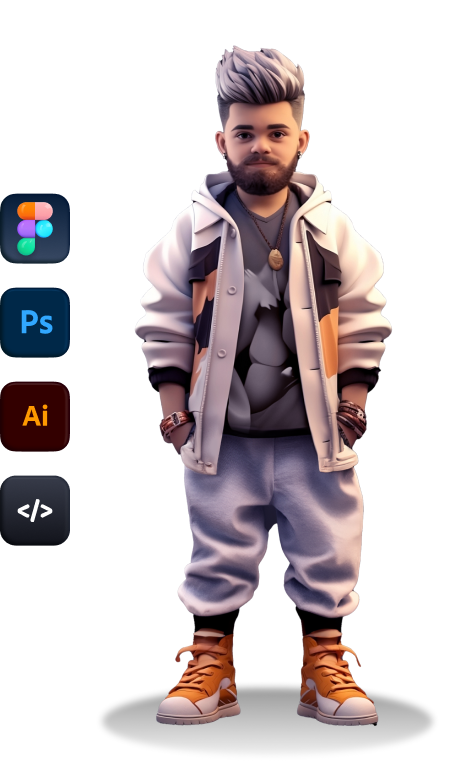
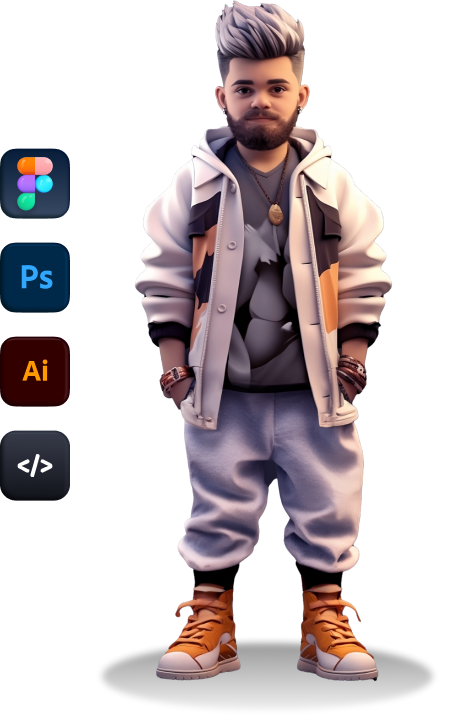
home mobile code update

diff --git a/css/styles-home.css b/css/styles-home.css
@@ -1,1 +1,1 @@
-.container{width:100%;max-width:1170px;margin:0 auto}*{font-family:'Baloo 2';padding:0;border:0;margin:0;box-sizing:border-box}body{background-image:url("../imgs/bg.jpg");background-size:cover;background-position:center center}html{scroll-padding-top:80px}header#header{background:linear-gradient(180deg, rgba(255,255,255,0.1) 0%, rgba(22,171,255,0.1) 100%),rgba(0,0,0,0.2);backdrop-filter:blur(8px);position:fixed;width:100%;padding:0px 16px;box-sizing:border-box;z-index:999}header#header .container .box-flex{display:flex;align-items:center;justify-content:space-between;height:80px}@media (max-width: 767px){header#header .container .box-flex{height:60px}}header#header .container .box-flex .logo{display:block;width:192px;text-decoration:none}@media (max-width: 767px){header#header .container .box-flex .logo{width:140px}}header#header .container .box-flex .logo img{display:block}@media (max-width: 767px){header#header .container .box-flex .logo img{width:140px}}header#header .container .box-flex nav{display:flex;align-items:center;justify-content:space-between;width:100%;height:100%;padding:24px 0 24px 0px;max-width:296px}@media (max-width: 767px){header#header .container .box-flex nav{display:none}}header#header .container .box-flex nav .menus{display:flex;align-items:center;justify-content:space-between;width:100%;padding-right:24px;border-right:solid 1px;border-color:#8aabff}header#header .container .box-flex nav .menus .link{color:#fff;text-decoration:none;position:relative}header#header .container .box-flex nav .menus .link:hover::after{content:"";position:absolute;width:100%;height:3px;background:linear-gradient(91deg, #ff8cba -7.51%, #ff4690 -7.5%, #2d71ff 49.34%, #62d3ff 105.02%);bottom:-5px;left:0;border-radius:100px}header#header .container .box-flex nav .social{align-content:center;display:flex;align-items:center;justify-content:space-between;width:100%;padding-left:24px;height:100%}header#header .container .box-flex nav .social .linkedin{width:24px;height:24px;background-image:url(../svg/icon-linkedin.svg);background-size:cover;background-position:center;background-repeat:no-repeat;transition:background-image 0.2s ease-in-out}header#header .container .box-flex nav .social .linkedin:hover{background-image:url(../svg/icon-linkedin-hover.svg)}header#header .container .box-flex nav .social .instagram{width:24px;height:24px;background-image:url(../svg/icon-instagram.svg);background-size:cover;background-position:center;background-repeat:no-repeat;transition:background-image 0.2s ease-in-out}header#header .container .box-flex nav .social .instagram:hover{background-image:url(../svg/icon-instagram-hover.svg)}header#header .container .box-flex nav .social .behance{width:24px;height:24px;background-image:url(../svg/icon-behance.svg);background-size:cover;background-position:center;background-repeat:no-repeat;transition:background-image 0.2s ease-in-out}header#header .container .box-flex nav .social .behance:hover{background-image:url(../svg/icon-behance-hover.svg)}header#header .container .box-flex nav .social .github{width:24px;height:24px;background-image:url(../svg/icon-github.svg);background-size:cover;background-position:center;background-repeat:no-repeat;transition:background-image 0.2s ease-in-out}header#header .container .box-flex nav .social .github:hover{background-image:url(../svg/icon-github-hover.svg)}section.section-01{height:830px;width:100%;padding:80px 0% 0px 16px;box-sizing:border-box;position:relative}section.section-01 .perspective{position:absolute;top:134px;z-index:-1}section.section-01 .photoshop{position:absolute;top:76px;left:226px}section.section-01 .dev{position:absolute;top:267px;left:128px}section.section-01 .figma{position:absolute;top:446px;left:139px}section.section-01 .illustrator{position:absolute;top:776px;left:200px}section.section-01 .html{position:absolute;top:1040px;left:91px}section.section-01 .container{display:flex;justify-content:space-between;height:100%;align-items:center}section.section-01 .container .box-flex{display:flex;flex-direction:column;gap:8px;justify-content:left;width:408px;margin-bottom:48px}section.section-01 .container .box-flex .person{width:102px;margin-bottom:16px}section.section-01 .container .box-flex .main-content{padding:20px 0 0 21px;color:#fff;font-size:24px;font-weight:700;line-height:28px;background-image:url(../imgs/cursor-rectangle.png);background-size:contain;background-repeat:no-repeat;height:155px}section.section-01 .container .box-flex .main-content .name{font-size:56px;font-weight:800;line-height:64px;background:-webkit-linear-gradient(114deg, #fb5f9e 0%, #4f7ddc 50.52%, #a6e6ff 100%);-webkit-background-clip:text;-webkit-text-fill-color:transparent}section.section-01 .container .box-flex .text-button{display:flex;flex-direction:column;gap:32px}section.section-01 .container .box-flex .text-button h2{color:#fff;font-size:28px;font-weight:500;line-height:32px}section.section-01 .container .box-flex .text-button .cta{max-width:200px;background:linear-gradient(91deg, #ff8cba -7.51%, #74a1ff 49.34%, #c0edff 105.02%);display:flex;padding:12px 64px;justify-content:center;align-items:center;border-radius:12px;font-size:20px;text-decoration:none;font-weight:500;line-height:24px;color:#0f0d1c}section.section-01 .container .box-flex .text-button .cta:hover{background:linear-gradient(91deg, #ff8cba -7.51%, #ff4690 -7.5%, #2d71ff 49.34%, #62d3ff 105.02%);box-shadow:inset 0 0 0 2px rgba(255,255,255,0.4);transition:0.2s ease-in-out}section.section-01 .container .light-bg{position:absolute;right:0px;top:0px;z-index:-1}section.section-02 .container{display:flex;flex-direction:column;height:100%}section.section-02 .container h2{display:flex;align-items:center;gap:16px;color:#fff;font-size:32px;line-height:36px;font-weight:700;margin-bottom:24px}section.section-02 .container .box-flex{display:flex;flex-wrap:wrap;gap:8px 8px;justify-content:center;width:100%;margin-bottom:96px}section.section-02 .container .box-flex .project{position:relative;height:300px;border-radius:12px;overflow:hidden}section.section-02 .container .box-flex .project:hover .project-title{opacity:1}section.section-02 .container .box-flex .project:hover::after{opacity:1}section.section-02 .container .box-flex .project .project-title{position:absolute;width:100%;text-align:center;font-size:20px;line-height:24px;font-weight:700;color:#fff;opacity:0;transition:opacity 0.3s;z-index:10;bottom:24px}section.section-02 .container .box-flex .project::after{content:"";position:absolute;top:0;left:0;right:0;bottom:0;background:linear-gradient(180deg, rgba(0,0,0,0) 0%, rgba(0,0,0,0.63) 61.98%, rgba(0,0,0,0.9) 100%);border-radius:11px;opacity:0;transition:opacity 0.3s;z-index:5}section.section-02 .container .box-flex .project img{height:300px;border-radius:13px}.modal-projeto{padding:0px 16px;position:fixed;top:0;bottom:0;left:0;right:0;margin:auto;width:100%;height:100vh;background-color:rgba(0,0,0,0.85);z-index:9999999;overflow:hidden}.modal-projeto .modal-area{position:fixed;top:0;left:0;right:0;bottom:0;margin:auto;width:1170px;height:100%;box-sizing:border-box;-webkit-box-shadow:0 0 56px 0 rgba(0,0,0,0.24);-moz-box-shadow:0 0 56px 0 rgba(0,0,0,0.24);box-shadow:0 0 56px 0 rgba(0,0,0,0.24);overflow:hidden}@media (max-width: 767px){.modal-projeto .modal-area{width:100%;max-width:328px;height:340px;padding:32px 16px}}.modal-projeto .modal-area .header-modal{padding:40px 0 16px 0;display:flex;justify-content:space-between}.modal-projeto .modal-area .content-modal{overflow-y:scroll;width:100%;height:100vh}.modal-projeto .modal-area .content-modal::-webkit-scrollbar{width:8px}.modal-projeto .modal-area .content-modal::-webkit-scrollbar-track{background:none;margin-top:92px}.modal-projeto .modal-area .content-modal::-webkit-scrollbar-thumb{background:linear-gradient(180deg, rgba(89,110,163,0) 0%, #596ea3 28.65%, #596ea3 76.04%, rgba(89,110,163,0) 100%);border-radius:10px;margin-left:2px;-webkit-transition:background 1s;transition:background 1s}.modal-projeto .modal-area .content-modal::-webkit-scrollbar-thumb:hover{border-radius:32px;background:linear-gradient(180deg, rgba(138,171,255,0) 0%, #8aabff 28.65%, #8aabff 76.04%, rgba(138,171,255,0) 100%)}.modal-projeto .modal-area .content-modal .modal-header{width:100%;display:flex;justify-content:space-between;align-items:center;position:absolute;padding:40px 0 104px 0;background:linear-gradient(180deg, #000 15.92%, rgba(0,0,0,0) 100%)}.modal-projeto .modal-area .content-modal .modal-header p{color:#fff;font-weight:800;font-size:32px;line-height:36px}.modal-projeto .modal-area .content-modal .modal-header .fechar{display:flex;align-items:center;cursor:pointer;margin-right:8px;border-radius:60px;background:rgba(255,255,255,0.15);padding:4px 4px 4px 12px;gap:8px;transition:all 0.2s}.modal-projeto .modal-area .content-modal .modal-header .fechar p{font-size:12px;font-style:normal;font-weight:400;line-height:14px;color:#fff}.modal-projeto .modal-area .content-modal .modal-header .fechar:hover{background:rgba(255,255,255,0.25)}.modal-projeto .modal-area .content-modal #img-projeto{width:100%;border-radius:16px;margin-top:92px}footer#footer{background:linear-gradient(180deg, rgba(255,255,255,0.1) 0%, rgba(22,171,255,0.1) 100%),rgba(0,0,0,0.2);height:64px}footer#footer .container{display:flex;justify-content:center;height:100%;align-items:center;gap:40px}footer#footer .container .footer-contact{display:flex;align-items:center;gap:12px}footer#footer .container .footer-contact a{text-decoration:none;font-size:16px;font-weight:500;line-height:20px;color:#fff}
+.container{width:100%;max-width:1170px;margin:0 auto}*{font-family:"Baloo 2";padding:0;border:0;margin:0;box-sizing:border-box}body{background-image:url("../imgs/bg.jpg");background-size:cover;background-position:center top}@media screen and (max-width: 600px){body{background-image:url("../imgs/bg-mobile.jpg")}}html{scroll-padding-top:80px}header#header{background:linear-gradient(180deg, rgba(255,255,255,0.1) 0%, rgba(22,171,255,0.1) 100%),rgba(0,0,0,0.2);backdrop-filter:blur(8px);position:fixed;width:100%;padding:0px 16px;box-sizing:border-box;z-index:999}header#header .container .box-flex{display:flex;align-items:center;justify-content:space-between;height:80px}@media (max-width: 767px){header#header .container .box-flex{height:60px}}header#header .container .box-flex .logo{display:block;width:192px;text-decoration:none}@media (max-width: 767px){header#header .container .box-flex .logo{width:140px}}header#header .container .box-flex .logo img{display:block}@media (max-width: 767px){header#header .container .box-flex .logo img{width:140px}}header#header .container .box-flex nav{display:flex;align-items:center;justify-content:space-between;width:100%;height:100%;padding:24px 0 24px 0px;max-width:296px}@media (max-width: 767px){header#header .container .box-flex nav{display:none}}header#header .container .box-flex nav .menus{display:flex;align-items:center;justify-content:space-between;width:100%;padding-right:24px;border-right:solid 1px;border-color:#8aabff}header#header .container .box-flex nav .menus .link{color:#fff;text-decoration:none;position:relative}header#header .container .box-flex nav .menus .link:hover::after{content:"";position:absolute;width:100%;height:3px;background:linear-gradient(91deg, #ff8cba -7.51%, #ff4690 -7.5%, #2d71ff 49.34%, #62d3ff 105.02%);bottom:-5px;left:0;border-radius:100px}header#header .container .box-flex nav .social{align-content:center;display:flex;align-items:center;justify-content:space-between;width:100%;padding-left:24px;height:100%}header#header .container .box-flex nav .social .linkedin{width:24px;height:24px;background-image:url(../svg/icon-linkedin.svg);background-size:cover;background-position:center;background-repeat:no-repeat;transition:background-image 0.2s ease-in-out}header#header .container .box-flex nav .social .linkedin:hover{background-image:url(../svg/icon-linkedin-hover.svg)}header#header .container .box-flex nav .social .instagram{width:24px;height:24px;background-image:url(../svg/icon-instagram.svg);background-size:cover;background-position:center;background-repeat:no-repeat;transition:background-image 0.2s ease-in-out}header#header .container .box-flex nav .social .instagram:hover{background-image:url(../svg/icon-instagram-hover.svg)}header#header .container .box-flex nav .social .behance{width:24px;height:24px;background-image:url(../svg/icon-behance.svg);background-size:cover;background-position:center;background-repeat:no-repeat;transition:background-image 0.2s ease-in-out}header#header .container .box-flex nav .social .behance:hover{background-image:url(../svg/icon-behance-hover.svg)}header#header .container .box-flex nav .social .github{width:24px;height:24px;background-image:url(../svg/icon-github.svg);background-size:cover;background-position:center;background-repeat:no-repeat;transition:background-image 0.2s ease-in-out}header#header .container .box-flex nav .social .github:hover{background-image:url(../svg/icon-github-hover.svg)}section.section-01{height:830px;width:100%;padding:80px 0% 0px 16px;box-sizing:border-box;position:relative}@media screen and (max-width: 600px){section.section-01{height:864px}}section.section-01 .perspective{width:100%;position:absolute;top:134px;left:0;z-index:-1;overflow:hidden}@media screen and (max-width: 600px){section.section-01 .perspective{top:530px;height:auto;width:100%}}section.section-01 .perspective img{width:1884px;height:auto;object-fit:cover}@media screen and (max-width: 600px){section.section-01 .perspective img{width:880px}}section.section-01 .photoshop{position:absolute;top:76px;left:226px;z-index:-1}@media screen and (max-width: 600px){section.section-01 .photoshop{left:248px;top:45px;width:42px}}section.section-01 .dev{position:absolute;top:267px;left:128px}@media screen and (max-width: 600px){section.section-01 .dev{display:none}}section.section-01 .figma{position:absolute;top:446px;left:139px;z-index:-1}@media screen and (max-width: 600px){section.section-01 .figma{top:100px;width:55px;left:292px}}section.section-01 .illustrator{position:absolute;top:776px;left:200px}@media screen and (max-width: 600px){section.section-01 .illustrator{top:188px;left:333px;width:42px}}section.section-01 .html{position:absolute;top:1040px;left:91px}section.section-01 .container{display:flex;justify-content:space-between;height:100%;align-items:center;width:100%}@media screen and (max-width: 600px){section.section-01 .container{flex-direction:column}}section.section-01 .container .box-flex{display:flex;flex-direction:column;gap:8px;justify-content:left;width:408px;margin-bottom:48px}@media screen and (max-width: 600px){section.section-01 .container .box-flex{width:100%;margin-bottom:0px}}section.section-01 .container .box-flex .person{width:102px;margin-bottom:16px}@media screen and (max-width: 600px){section.section-01 .container .box-flex .person{width:58px;margin-bottom:4px}}section.section-01 .container .box-flex .main-content{padding:20px 0 0 21px;color:#fff;font-size:24px;font-weight:700;line-height:28px;background-image:url(../imgs/cursor-rectangle.png);background-size:contain;background-repeat:no-repeat;height:155px}@media screen and (max-width: 600px){section.section-01 .container .box-flex .main-content{font-size:16px;width:240px;padding:8px 8px;height:86px}}section.section-01 .container .box-flex .main-content .name{font-size:56px;font-weight:800;line-height:64px;background:-webkit-linear-gradient(114deg, #fb5f9e 0%, #4f7ddc 50.52%, #a6e6ff 100%);-webkit-background-clip:text;-webkit-text-fill-color:transparent}@media screen and (max-width: 600px){section.section-01 .container .box-flex .main-content .name{font-size:32px;line-height:36px}}section.section-01 .container .box-flex .text-button{display:flex;flex-direction:column;gap:32px}@media screen and (max-width: 600px){section.section-01 .container .box-flex .text-button{gap:16px}}section.section-01 .container .box-flex .text-button h2{color:#fff;font-size:28px;font-weight:500;line-height:32px}@media screen and (max-width: 600px){section.section-01 .container .box-flex .text-button h2{font-size:16px;line-height:20px}}section.section-01 .container .box-flex .text-button .cta{max-width:200px;background:linear-gradient(91deg, #ff8cba -7.51%, #74a1ff 49.34%, #c0edff 105.02%);display:flex;padding:12px 64px;justify-content:center;align-items:center;border-radius:12px;font-size:20px;text-decoration:none;font-weight:500;line-height:24px;color:#0f0d1c}section.section-01 .container .box-flex .text-button .cta:hover{background:linear-gradient(91deg, #ff8cba -7.51%, #ff4690 -7.5%, #2d71ff 49.34%, #62d3ff 105.02%);box-shadow:inset 0 0 0 2px rgba(255,255,255,0.4);transition:0.2s ease-in-out}section.section-01 .container .light-bg{position:absolute;right:0px;top:0px;z-index:-1}@media screen and (max-width: 600px){section.section-01 .container .light-bg{top:424px;width:100%}}section.section-01 .container .character{margin-top:40px}@media screen and (max-width: 600px){section.section-01 .container .character{width:80%;margin-top:16px}}section.section-02{padding:0px 16px 0px 16px}section.section-02 .container{display:flex;flex-direction:column;height:100%;width:100%}section.section-02 .container h2{display:flex;align-items:center;gap:16px;color:#fff;font-size:32px;line-height:36px;font-weight:700;margin-bottom:24px}@media screen and (max-width: 600px){section.section-02 .container h2{font-size:24px;line-height:28px}}section.section-02 .container .box-flex{display:flex;flex-wrap:wrap;gap:8px 8px;justify-content:center;width:100%;margin-bottom:96px}@media screen and (max-width: 600px){section.section-02 .container .box-flex{margin-bottom:32px}}section.section-02 .container .box-flex .project{position:relative;max-width:400px;height:279px;border-radius:12px;overflow:hidden}section.section-02 .container .box-flex .project:hover .project-title{opacity:1}section.section-02 .container .box-flex .project:hover::after{opacity:1}section.section-02 .container .box-flex .project .project-title{position:absolute;width:100%;text-align:center;font-size:20px;line-height:24px;font-weight:700;color:#fff;opacity:0;transition:opacity 0.3s;z-index:10;bottom:24px}section.section-02 .container .box-flex .project::after{content:"";position:absolute;top:0;left:0;right:0;bottom:0;background:linear-gradient(180deg, rgba(0,0,0,0) 0%, rgba(0,0,0,0.63) 61.98%, rgba(0,0,0,0.9) 100%);border-radius:11px;opacity:0;transition:opacity 0.3s;z-index:5}section.section-02 .container .box-flex .project img{width:100%;height:auto;border-radius:13px}.modal-projeto{padding:0px 16px;position:fixed;top:0;bottom:0;left:0;right:0;margin:auto;width:100%;height:100vh;background-color:rgba(0,0,0,0.85);z-index:9999999;overflow:hidden}.modal-projeto .modal-area{position:fixed;top:0;left:0;right:0;bottom:0;margin:auto;width:1170px;height:100%;box-sizing:border-box;-webkit-box-shadow:0 0 56px 0 rgba(0,0,0,0.24);-moz-box-shadow:0 0 56px 0 rgba(0,0,0,0.24);box-shadow:0 0 56px 0 rgba(0,0,0,0.24);overflow:hidden}@media (max-width: 767px){.modal-projeto .modal-area{width:100%;max-width:328px;height:340px;padding:32px 16px}}.modal-projeto .modal-area .header-modal{padding:40px 0 16px 0;display:flex;justify-content:space-between}.modal-projeto .modal-area .content-modal{overflow-y:scroll;width:100%;height:100vh}.modal-projeto .modal-area .content-modal::-webkit-scrollbar{width:8px}.modal-projeto .modal-area .content-modal::-webkit-scrollbar-track{background:none;margin-top:92px}.modal-projeto .modal-area .content-modal::-webkit-scrollbar-thumb{background:linear-gradient(180deg, rgba(89,110,163,0) 0%, #596ea3 28.65%, #596ea3 76.04%, rgba(89,110,163,0) 100%);border-radius:10px;margin-left:2px;-webkit-transition:background 1s;transition:background 1s}.modal-projeto .modal-area .content-modal::-webkit-scrollbar-thumb:hover{border-radius:32px;background:linear-gradient(180deg, rgba(138,171,255,0) 0%, #8aabff 28.65%, #8aabff 76.04%, rgba(138,171,255,0) 100%)}.modal-projeto .modal-area .content-modal .modal-header{width:100%;display:flex;justify-content:space-between;align-items:center;position:absolute;padding:40px 0 104px 0;background:linear-gradient(180deg, #000 15.92%, rgba(0,0,0,0) 100%)}.modal-projeto .modal-area .content-modal .modal-header p{color:#fff;font-weight:800;font-size:32px;line-height:36px}.modal-projeto .modal-area .content-modal .modal-header .fechar{display:flex;align-items:center;cursor:pointer;margin-right:8px;border-radius:60px;background:rgba(255,255,255,0.15);padding:4px 4px 4px 12px;gap:8px;transition:all 0.2s}.modal-projeto .modal-area .content-modal .modal-header .fechar p{font-size:12px;font-style:normal;font-weight:400;line-height:14px;color:#fff}.modal-projeto .modal-area .content-modal .modal-header .fechar:hover{background:rgba(255,255,255,0.25)}.modal-projeto .modal-area .content-modal #img-projeto{width:100%;border-radius:16px;margin-top:92px}footer#footer{background:linear-gradient(180deg, rgba(255,255,255,0.1) 0%, rgba(22,171,255,0.1) 100%),rgba(0,0,0,0.2);height:64px}footer#footer .container{display:flex;justify-content:center;height:100%;align-items:center;gap:40px}footer#footer .container .footer-contact{display:flex;align-items:center;gap:12px}footer#footer .container .footer-contact a{text-decoration:none;font-size:16px;font-weight:500;line-height:20px;color:#fff}

diff --git a/scss/home/section-01.scss b/scss/home/section-01.scss
@@ -5,34 +5,81 @@ section.section-01 {
   box-sizing: border-box;
   position: relative;
 
+  @media screen and (max-width: 600px) {
+    height: 864px;
+  }
+
   .perspective {
+    width: 100%;
     position: absolute;
     top: 134px;
+    left: 0;
     z-index: -1;
+    overflow: hidden;
+
+    @media screen and (max-width: 600px) {
+      top: 530px;
+      height: auto;
+      width: 100%;
+    }
+
+    img {
+      width: 1884px;
+      height: auto;
+      object-fit: cover;
+
+      @media screen and (max-width: 600px) {
+        width: 880px;
+      }
+    }
   }
 
   .photoshop {
     position: absolute;
     top: 76px;
     left: 226px;
+    z-index: -1;
+
+    @media screen and (max-width: 600px) {
+      left: 248px;
+      top: 45px;
+      width: 42px;
+    }
   }
 
   .dev {
     position: absolute;
     top: 267px;
     left: 128px;
+
+    @media screen and (max-width: 600px) {
+      display: none;
+    }
   }
 
   .figma {
     position: absolute;
     top: 446px;
     left: 139px;
+    z-index: -1;
+
+    @media screen and (max-width: 600px) {
+      top: 100px;
+      width: 55px;
+      left: 292px;
+    }
   }
 
   .illustrator {
     position: absolute;
     top: 776px;
     left: 200px;
+
+    @media screen and (max-width: 600px) {
+      top: 188px;
+      left: 333px;
+      width: 42px;
+    }
   }
 
   .html {
@@ -46,6 +93,11 @@ section.section-01 {
     justify-content: space-between;
     height: 100%;
     align-items: center;
+    width: 100%;
+
+    @media screen and (max-width: 600px) {
+      flex-direction: column;
+    }
 
     .box-flex {
       display: flex;
@@ -55,9 +107,19 @@ section.section-01 {
       width: 408px;
       margin-bottom: 48px;
 
+      @media screen and (max-width: 600px) {
+        width: 100%;
+        margin-bottom: 0px;
+      }
+
       .person {
         width: 102px;
         margin-bottom: 16px;
+
+        @media screen and (max-width: 600px) {
+          width: 58px;
+          margin-bottom: 4px;
+        }
       }
 
       .main-content {
@@ -71,6 +133,13 @@ section.section-01 {
         background-repeat: no-repeat;
         height: 155px;
 
+        @media screen and (max-width: 600px) {
+          font-size: 16px;
+          width: 240px;
+          padding: 8px 8px;
+          height: 86px;
+        }
+
         .name {
           font-size: 56px;
           font-weight: 800;
@@ -83,6 +152,11 @@ section.section-01 {
           );
           -webkit-background-clip: text;
           -webkit-text-fill-color: transparent;
+
+          @media screen and (max-width: 600px) {
+            font-size: 32px;
+            line-height: 36px;
+          }
         }
       }
 
@@ -91,11 +165,20 @@ section.section-01 {
         flex-direction: column;
         gap: 32px;
 
+        @media screen and (max-width: 600px) {
+          gap: 16px;
+        }
+
         h2 {
           color: $white;
           font-size: 28px;
           font-weight: 500;
           line-height: 32px;
+
+          @media screen and (max-width: 600px) {
+            font-size: 16px;
+            line-height: 20px;
+          }
         }
         .cta {
           max-width: 200px;
@@ -123,6 +206,20 @@ section.section-01 {
       right: 0px;
       top: 0px;
       z-index: -1;
+
+      @media screen and (max-width: 600px) {
+        top: 424px;
+        width: 100%;
+      }
+    }
+
+    .character {
+      margin-top: 40px;
+
+      @media screen and (max-width: 600px) {
+        width: 80%;
+        margin-top: 16px;
+      }
     }
   }
 }

diff --git a/scss/home/section-02.scss b/scss/home/section-02.scss
@@ -1,8 +1,11 @@
 section.section-02 {
+  padding: 0px 16px 0px 16px;
+
   .container {
     display: flex;
     flex-direction: column;
     height: 100%;
+    width: 100%;
 
     h2 {
       display: flex;
@@ -13,6 +16,11 @@ section.section-02 {
       line-height: 36px;
       font-weight: 700;
       margin-bottom: 24px;
+
+      @media screen and (max-width: 600px) {
+        font-size: 24px;
+        line-height: 28px;
+      }
     }
 
     .box-flex {
@@ -23,11 +31,19 @@ section.section-02 {
       width: 100%;
       margin-bottom: 96px;
 
+      @media screen and (max-width: 600px) {
+        margin-bottom: 32px;
+      }
+
       .project {
         position: relative;
-        height: 300px;
+        max-width: 400px;
+        height: 279px;
         border-radius: 12px;
         overflow: hidden;
+
+        @media screen and (max-width: 600px) {
+        }
 
         &:hover {
           .project-title {
@@ -74,8 +90,12 @@ section.section-02 {
         }
 
         img {
-          height: 300px;
+          width: 100%;
+          height: auto;
           border-radius: 13px;
+
+          @media screen and (max-width: 600px) {
+          }
         }
       }
     }
@@ -174,7 +194,7 @@ section.section-02 {
         align-items: center;
         position: absolute;
         padding: 40px 0 104px 0;
-        background: linear-gradient(180deg, #000 15.92%, rgba(0, 0, 0, 0.00) 100%);
+        background: linear-gradient(180deg, #000 15.92%, rgba(0, 0, 0, 0) 100%);
 
         p {
           color: #fff;

diff --git a/index.html b/index.html
@@ -64,11 +64,6 @@
     </header>
 
     <section class="section-01" id="inicio">
-      <img
-        src="imgs/perspective.png"
-        alt="Quadriculado perspectiva"
-        class="perspective"
-      />
       <img src="imgs/photoshop.png" alt="Logo Photoshop" class="photoshop" />
       <img src="imgs/dev.png" alt="Símbolo de Programação" class="dev" />
       <img src="imgs/figma.png" alt="Logo Figma" class="figma" />
@@ -105,6 +100,12 @@
           alt="Personagem 3D do Eduardo Lima vestindo uma blusa branca e uma calça cinza usando um tenis laranja."
           class="character"
         />
+        <div class="perspective">
+          <img
+            src="imgs/perspective.png"
+            alt="Quadriculado perspectiva"
+          />
+        </div>
       </div>
     </section>
 
@@ -202,7 +203,10 @@
             <p id="nome-projeto">XXX</p>
             <div class="fechar click-fechar-modal">
               <p>Fechar</p>
-              <img src="../portfolio/svg/icon-close.svg" alt="Ícone para fechar modal" />
+              <img
+                src="../portfolio/svg/icon-close.svg"
+                alt="Ícone para fechar modal"
+              />
             </div>
           </div>
           <div class="scroll">

diff --git a/data/projetos.js b/data/projetos.js
@@ -1,42 +1,42 @@
 var projetos = {
   projeto01: {
-    // NOME CRIANÇA
+    // NOME PROJETO
     nomeProjeto: "Aplicativo - Show Xpress",
-    // FOTO MODAL
+    // FOTO PROJETO
     imgProjeto: "../portfolio/imgs/projetos/app-showXpress.jpg",
   },
 
   projeto02: {
-    // NOME CRIANÇA
+    // NOME PROJETO
     nomeProjeto: "Aplicativo - TipTap",
-    // FOTO MODAL
+    // FOTO PROJETO
     imgProjeto: "../portfolio/imgs/projetos/tip-tap.jpg",
   },
 
   projeto03: {
-    // NOME CRIANÇA
+    // NOME PROJETO
     nomeProjeto: "Aplicativo - Península",
-    // FOTO MODAL
+    // FOTO PROJETO
     imgProjeto: "../portfolio/imgs/projetos/peninsula.jpg",
   },
 
   projeto04: {
-    // NOME CRIANÇA
+    // NOME PROJETO
     nomeProjeto: "Site e Implantação - SAGRIS",
-    // FOTO MODAL
+    // FOTO PROJETO
   },
 
   projeto05: {
-    // NOME CRIANÇA
+    // NOME PROJETO
     nomeProjeto: "Site - Costa & Nascimento",
-    // FOTO MODAL
+    // FOTO PROJETO
     imgProjeto: "../portfolio/imgs/projetos/costa-nascimento.jpg",
   },
 
   projeto06: {
-    // NOME CRIANÇA
+    // NOME PROJETO
     nomeProjeto: "Site - Marc",
-    // FOTO MODAL
+    // FOTO PROJETO
     imgProjeto: "../portfolio/imgs/projetos/marc.jpg",
   },
 }

diff --git a/scss/home/body.scss b/scss/home/body.scss
@@ -1,13 +1,21 @@
 * {
-    font-family: 'Baloo 2';
-    padding: 0;
-    border: 0;
-    margin: 0;
-    box-sizing: border-box;
+  font-family: "Baloo 2";
+  padding: 0;
+  border: 0;
+  margin: 0;
+  box-sizing: border-box;
 }
 
 body {
-    background-image: $background-image-desk;
-    background-size: cover;
-    background-position: center center;
+  background-image: $background-image-desk;
+  background-size: cover;
+  background-position: center top;
+}
+
+// MOBILE
+@media screen and (max-width: 600px) {
+  // Seus estilos para dispositivos móveis aqui
+  body {
+    background-image: $background-image-mobile;
+  }
 }

diff --git a/scss/variables.scss b/scss/variables.scss
@@ -18,6 +18,7 @@ $linear-blue-black: linear-gradient(
   ),
   rgba(0, 0, 0, 0.2);
 $background-image-desk: url("../imgs/bg.jpg");
+$background-image-mobile: url("../imgs/bg-mobile.jpg");
 $white: #fff;
 $light-blue: #8aabff;
 $blue: #1162ff;
